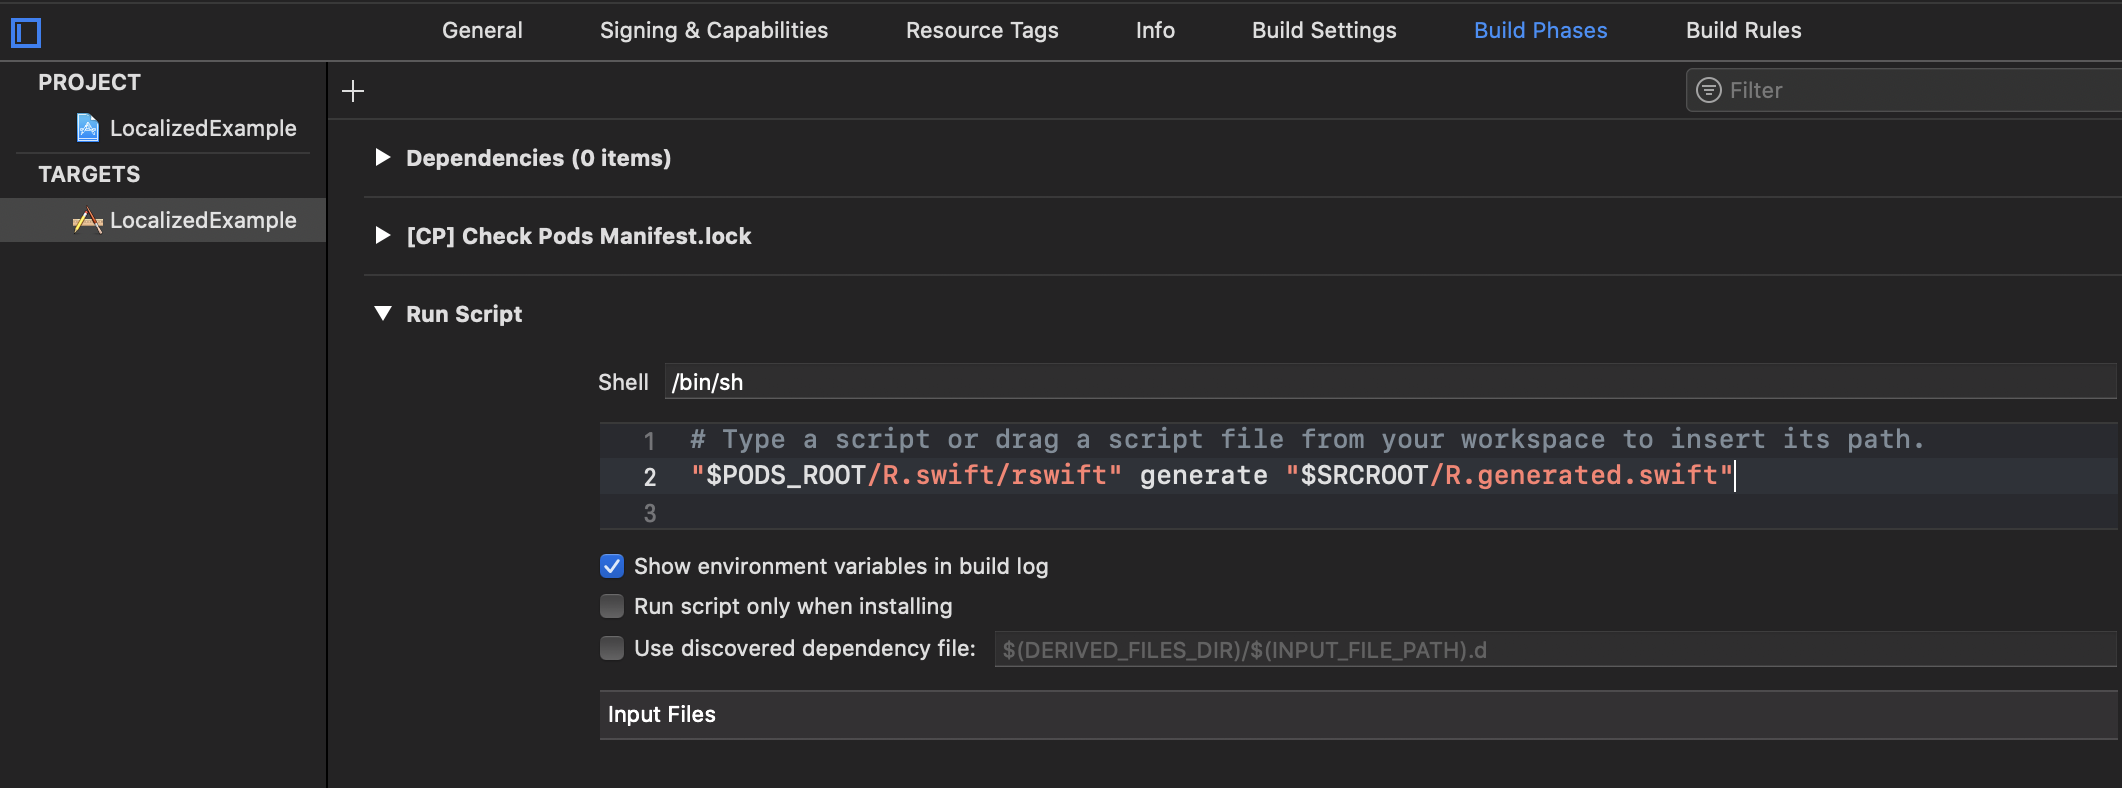
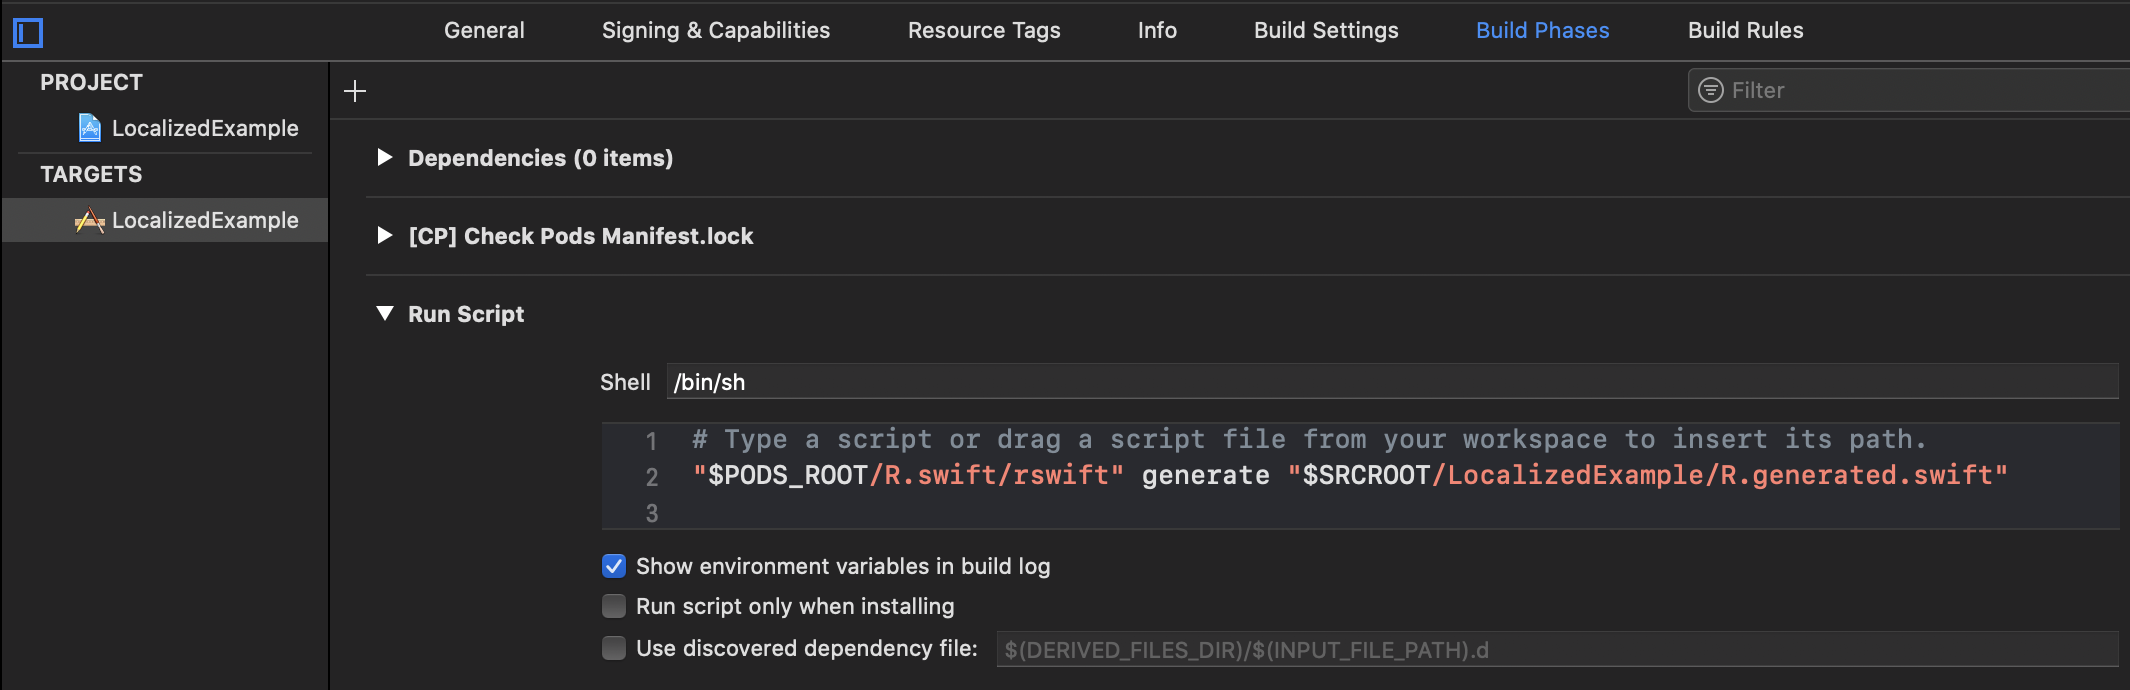
update setup R.swift

diff --git a/LocalizedExample/ContentView.swift b/LocalizedExample/ContentView.swift
@@ -7,10 +7,19 @@
 //
 
 import SwiftUI
+import Rswift
 
 struct ContentView: View {
     var body: some View {
-        Text("Hello, World!")
+        VStack {
+            Text(R.string.localizable.hello_world())
+            Button(action: {
+                UserDefaults.standard.set("en", forKey: "AppleLanguages")
+                UserDefaults.standard.synchronize()
+            }) {
+                Text("Change Language")
+            }
+        }
     }
 }
 

diff --git a/README.md b/README.md
@@ -36,17 +36,20 @@ pod 'R.swift'
 * Expand Run Script and paste the following script:
 
 ```
-"$PODS_ROOT/R.swift/rswift" generate "$SRCROOT/R.generated.swift"
+"$PODS_ROOT/R.swift/rswift" generate "$SRCROOT/[YOUR_PATH]/R.generated.swift"
 ```
 
 ![Screenshot](Screenshots/7.png)
-
 
 * Add `$TEMP_DIR/rswift-lastrun` to the `Input Files`
 
 ![Screenshot](Screenshots/8.png)
 
-* Add `$SRCROOT/R.generated.swift` to the `Output Files`
+* Add `Script` to the `Output Files`
+
+```
+$SRCROOT/[YOUR_PATH]/R.generated.swift
+```
 
 ![Screenshot](Screenshots/9.png)
 
@@ -54,8 +57,6 @@ pod 'R.swift'
 
 ![Screenshot](Screenshots/10.png)
 
-* Result
+* Add file to "LocalizedExample"
 
-
-
-
+![Screenshot](Screenshots/11.png)
